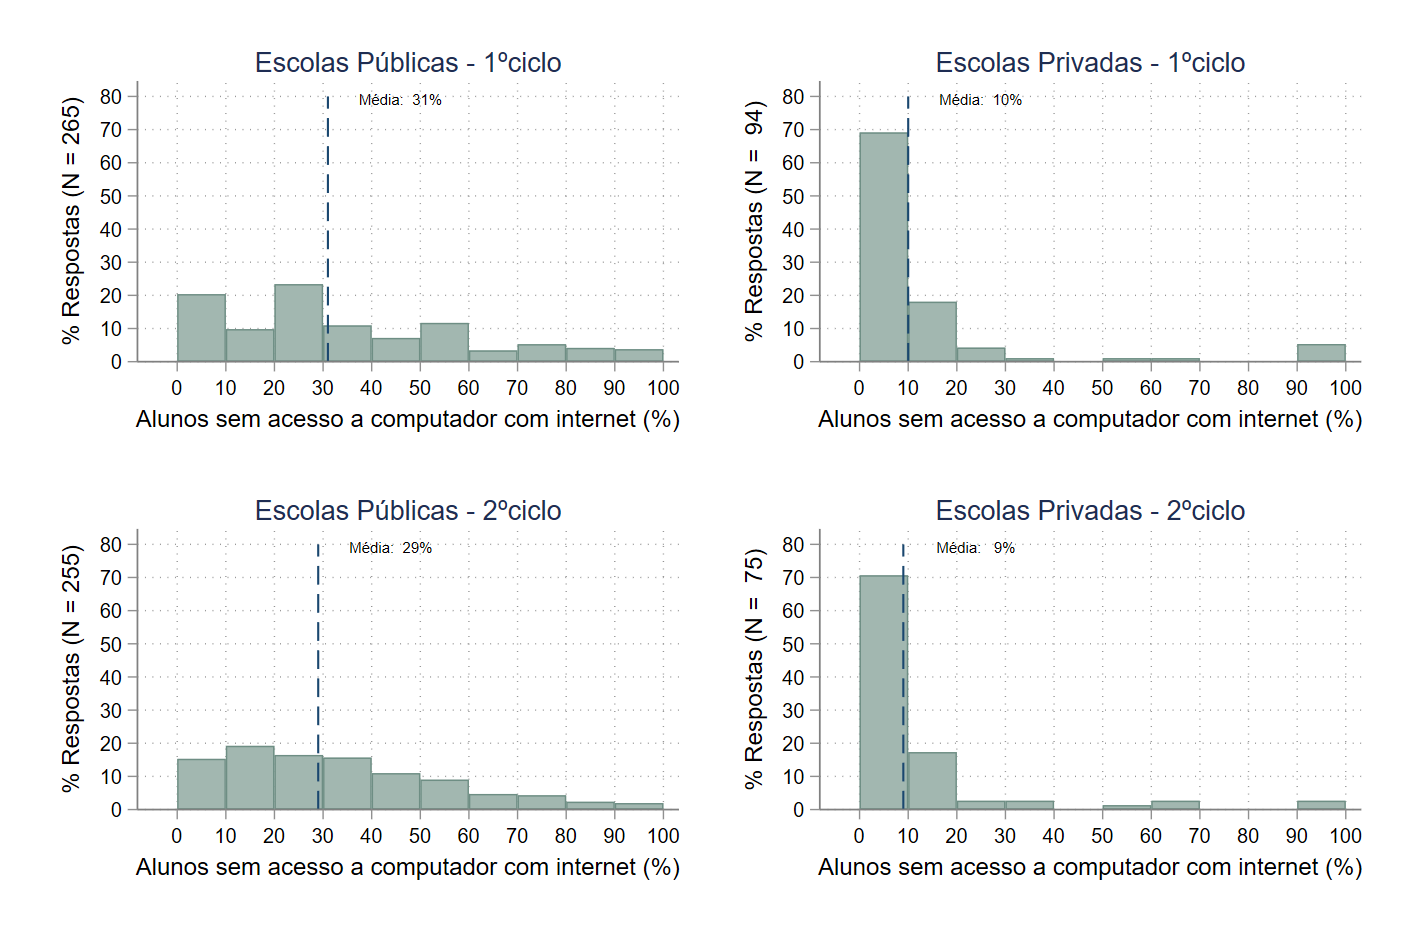
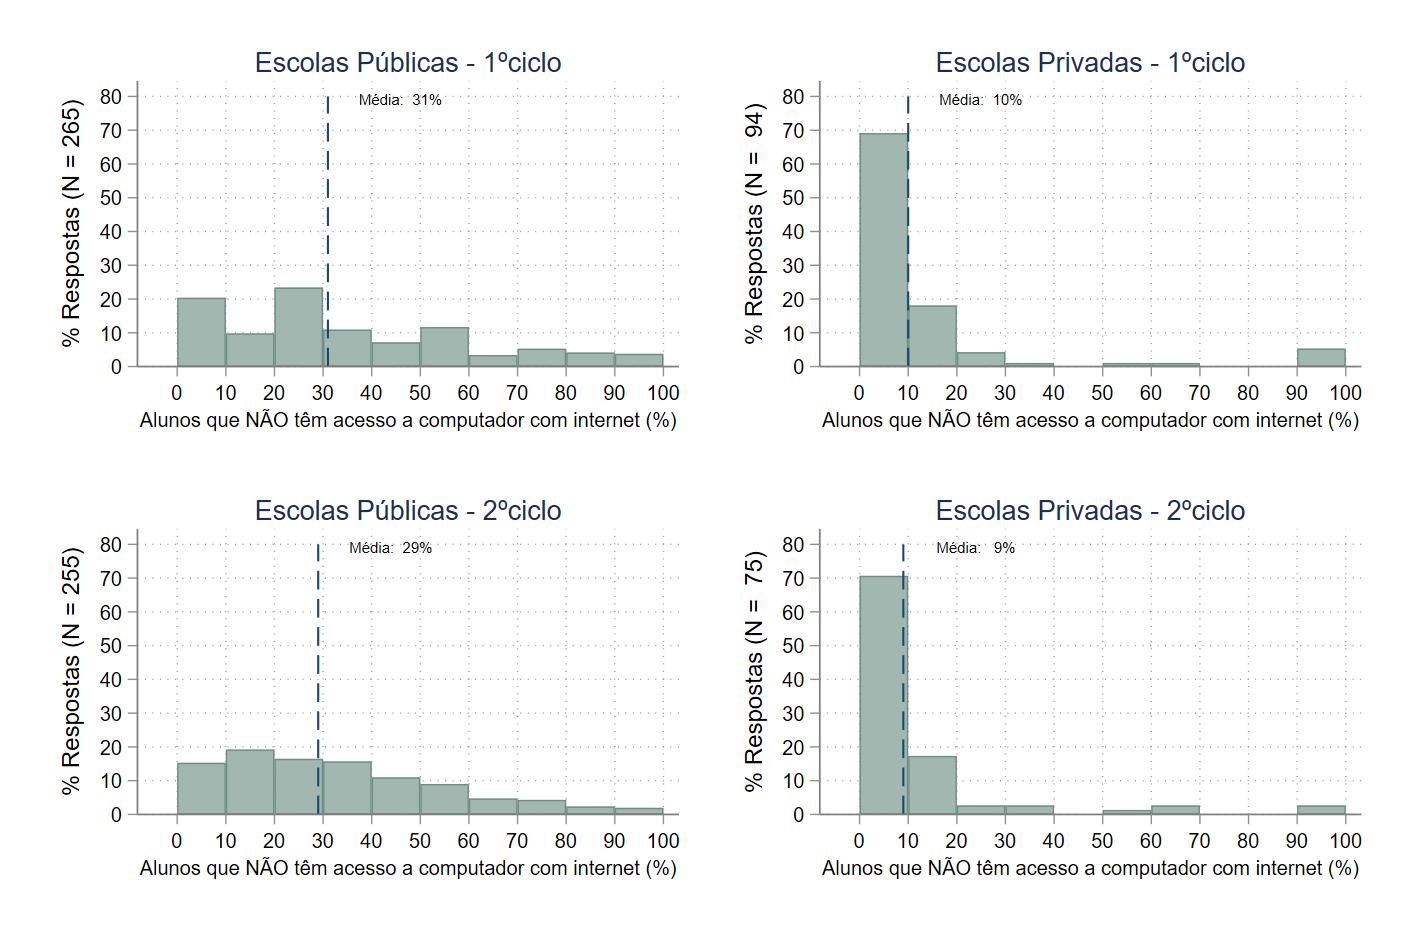
Update html

diff --git a/index.html b/index.html
@@ -75,39 +75,36 @@ table tbody:last-child tr:last-child td {border-bottom:1px solid black;}
 <hr />
 
 <h2 id="introdução">Introdução</h2>
-<p>A atual pandemia de COVID-19 obrigou ao fecho de escolas e outras instituições de ensino em todo o país.<br />
-Professores e alunos têm migrado as suas aulas para soluções de ensino a distância, nomeadamente através de plataformas online. Esta é uma experiência inédita na realidade portuguesa que interessa acompanhar.<br />
+<p>O <a href="https://economicsofeducationatnovasbe.wordpress.com/">Centro de Economia da Educação da Universidade Nova de Lisboa</a> está realizar um inquérito junto de professores do ensino básico e secundário, de escolas públicas e privadas, sobre as soluções de ensino a distância que têm sido adotadas no atual contexto de pandemia de COVID-19. <br />
 <br />
-O <a href="https://economicsofeducationatnovasbe.wordpress.com/">Centro de Economia da Educação da Universidade Nova de Lisboa</a> encontra-se a recolher, desde o dia 25 de março, um inquérito online junto de professores do ensino básico e secundário, de escolas públicas e privadas. Neste inquérito, para o qual convidamos todos os professores a participar (<a href="https://bit.ly/2J9WKir">https://bit.ly/2J9WKir</a>), aferimos quais as soluções de ensino a distância que têm sido adotadas.<br />
+Apresentamos aqui resultados preliminares sobre o acesso dos alunos a computador com ligação à Internet e as estratégias de ensino a distância que têm sido adotadas, com base nas 1586 respostas recebidas desde o dia 25 de março até ao dia 8 de abril de 2020.<br />
 <br />
-Até ao dia 8 de abril de 2020 foram recolhidos um total de 1586 repostas válidas, cuja distribuição geográfica, por tipos e ciclos de ensino pode ser consultada no final da página.<br />
-<br />
-Apresentamos aqui alguns resultados preliminares, tais como o acesso dos alunos a computador com ligação à Internet ou as estratégias de ensino a distância que têm sido adotadas um pouco por todo o país.
+Convidamos todos os professores que ainda não tenham respondido a participar (<a href="https://bit.ly/2J9WKir">https://bit.ly/2J9WKir</a>). A distribuição geográfica, por tipos e ciclos de ensino das respostas já recebidas pode ser consultada no final da página.
 </p>
 
-<h2 id="alunos-sem-computador-com-acesso-a-Internet">Alunos sem computador com acesso à Internet</h2>
+<h2 id="alunos-sem-computador-com-acesso-a-Internet">Alunos que NÃO têm computador com acesso à Internet</h2>
 
 <p>Existe uma grande variabilidade nas respostas dos professores à questão: "Qual pensa ser a percentagem dos seus alunos que NÃO têm um computador com acesso à Internet em casa?".<br />
 Muitos professores reportam que mais de metade dos seus alunos não têm um computador com acesso à Internet. Ainda assim, a maioria dos inquiridos reporta percentagens abaixo de 50%.<br />
 <br />
 De acordo com o inquérito, em média, 23% dos alunos não têm acesso a computador com Internet em casa.<br />
-Este valor é superior ao reportado pelo <a href="https://www.ine.pt/xportal/xmain?xpid=INE&xpgid=ine_destaques&DESTAQUESdest_boui=354447153&DESTAQUESmodo=2">INE</a> em Novembro último (5.5% das famílias com crianças até aos 15 anos). Tal diferença poderá justificar-se por uma parte significativa dos alunos não ter acesso assegurado a um computador existente em sua casa para fins de ensino a distância. </p>
+Este valor é superior ao reportado pelo <a href="https://www.ine.pt/xportal/xmain?xpid=INE&xpgid=ine_destaques&DESTAQUESdest_boui=354447153&DESTAQUESmodo=2">INE</a> em Novembro último (5.5% das famílias com crianças até aos 15 anos). Esta diferença pode justificar-se uma vez que os dados do INE apenas indicam se existe algum computador com internet no agregado familiar de cada aluno (por exemplo, podem existir situações em que os filhos não podem aceder ao computador por os pais o estarem a utilizar para teletrabalho). </p>
 <figure>
-<img src="scratch/sem-internet.png" alt="Proporção de alunos sem computador com acesso à Internet" style="width:75.0%" /><figcaption>Proporção de alunos sem computador com acesso à Internet</figcaption>
+<img src="scratch/sem-internet.png" alt="Proporção de alunos sem computador com acesso à Internet" style="width:75.0%" /><figcaption>Alunos que NÃO têm computador com acesso à Internet</figcaption>
 </figure>
 
 <h3 id="alunos-sem-computador-com-acesso-a-Internet---por-ciclo-e-tipo-de-ensino">Alunos sem computador com acesso à Internet - por tipos e ciclos de ensino</h3>
 
 <p>Em média, os professores que dão aulas em escolas privadas reportam uma menor percentagem de alunos sem computador com acesso à Internet. <br />
-Existe uma maior dispersão de respostas dos inquiridos em escolas públicas e em ciclos de ensino iniciais.
+Existe uma maior variabilidade nas respostas dos inquiridos em escolas públicas e em ciclos de ensino iniciais.
 <br />
 No 1º e 2º ciclos, o diferencial entre escolas públicas e privadas é maior.<br />
 Por exemplo, no 1º ciclo do ensino público a média da percentagem de alunos sem computador com acesso à Internet é de 31%, enquanto que em escolas privadas este valor cai para 10%.</p>
 <figure>
-<img src="scratch/sem-internet_1+2.png" alt="Proporção de alunos sem computador com acesso à Internet, 1º e 2º ciclos" style="width:100.0%" /><figcaption>Proporção de alunos sem computador com acesso à Internet, 1º e 2º ciclos</figcaption>
+<img src="scratch/sem-internet_1+2.png" alt="Proporção de alunos sem computador com acesso à Internet, 1º e 2º ciclos" style="width:100.0%" /><figcaption>Alunos que NÃO têm computador com acesso à Internet, 1º e 2º ciclos</figcaption>
 </figure>
 <figure>
-<img src="scratch/sem-internet_3+4.png" alt="Proporção de alunos sem computador com acesso à Internet, 3º ciclo e Secundário" style="width:100.0%" /><figcaption>Proporção de alunos sem computador com acesso à Internet, 3º ciclo e Secundário</figcaption>
+<img src="scratch/sem-internet_3+4.png" alt="Proporção de alunos sem computador com acesso à Internet, 3º ciclo e Secundário" style="width:100.0%" /><figcaption>Alunos que NÃO têm computador com acesso à Internet, 3º ciclo e Secundário</figcaption>
 </figure>
 
 <h2 id="estratégias-de-ensino-a-distância">Estratégias de ensino a distância</h2>
@@ -164,13 +161,13 @@ Nas escolas privadas, 33% dos professores recolhem informação acerca da partic
 
 <h2 id="avaliação-da-adaptação-à-realidade-de-ensino-a-distância">Avaliação da adaptação à realidade de ensino a distância</h2>
 
-<p>Numa escala crescente de 1 a 7, os professores inquiridos tendem a avaliar favoravelmente a sua adaptação ao ensino a distância, bem como a dos seus alunos e respetivos encarregados de educação.  .<br />
+<p>Numa escala crescente de 1 a 7, os professores inquiridos tendem a avaliar favoravelmente a sua adaptação ao ensino a distância, bem como a dos seus alunos e respetivos encarregados de educação.<br />
 <br />
-Em média, os professores classificaram a sua própria capacidade de adesão e adaptação em 5.32.<br />
+Em média, os professores classificaram a sua própria capacidade de adesão e adaptação em 5,32.<br />
 <br />
-Em média, os professores classificaram a adesão e adaptação dos seus alunos em 4.54.<br />
+Em média, os professores classificaram a adesão e adaptação dos seus alunos em 4,54.<br />
 <br />
-Em média, os professores classificaram a adesão e adaptação dos encarregados de educação em 4.13.<br />
+Em média, os professores classificaram a adesão e adaptação dos encarregados de educação em 4,13.<br />
 </p>
 <figure>
 <img src="scratch/adapt_prof.png" alt="Avaliação da adaptação dos próprios" style="width:75.0%" /><figcaption>Avaliação da adaptação dos próprios</figcaption>
